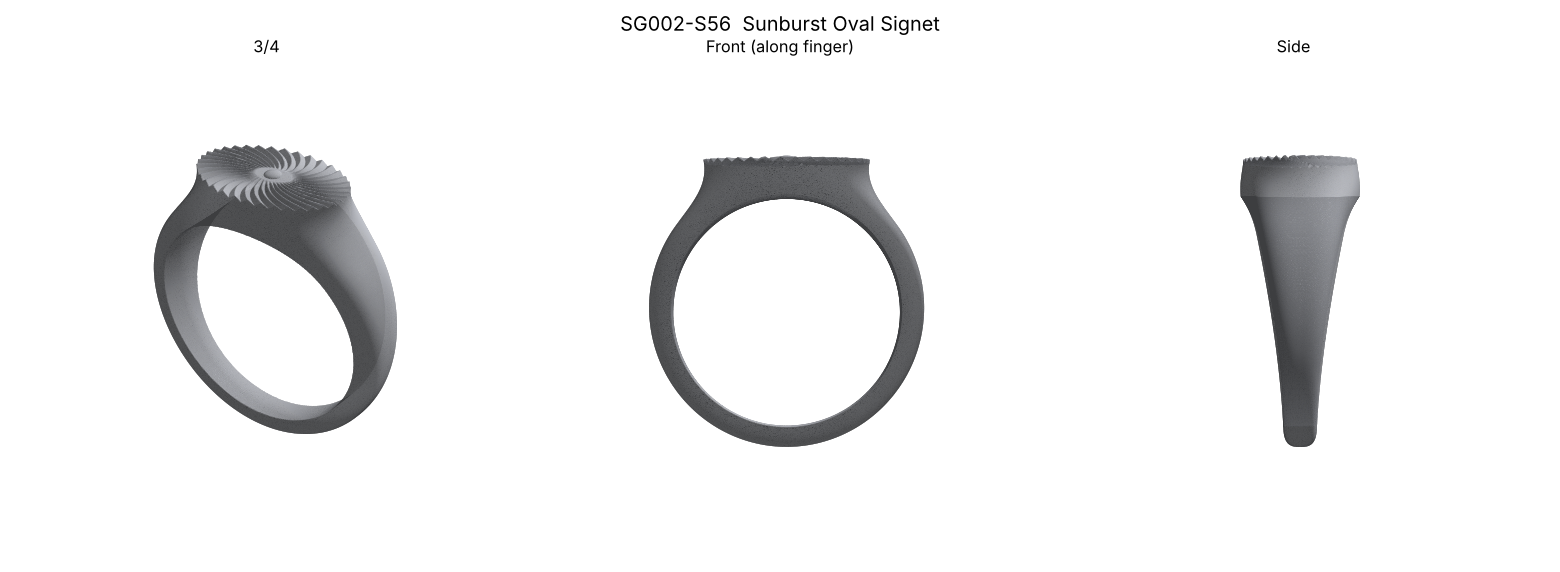
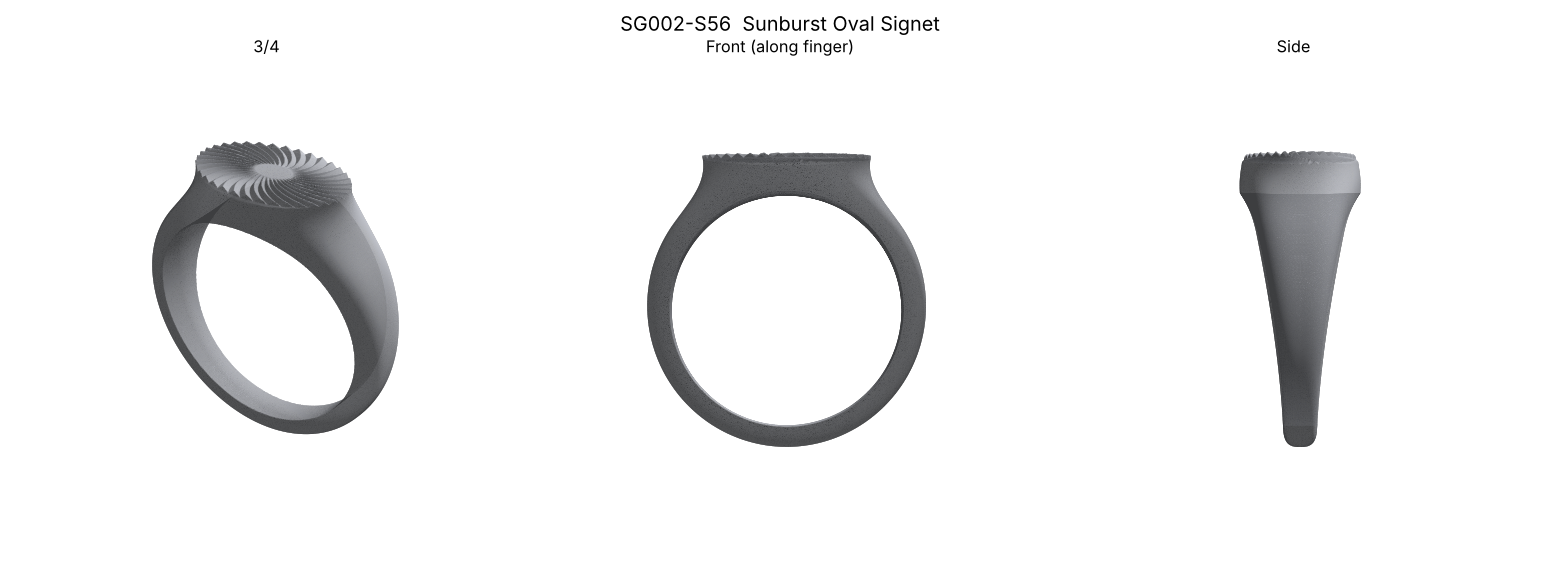
jewelry-cad: signet face stands clear of the shank with an even edge drop
Claude-Session: https://claude.ai/code/session_01PfP4o3WJFAv6XYjE3deh4p

diff --git a/jewelry-cad/sdf.py b/jewelry-cad/sdf.py
@@ -49,6 +49,11 @@ def build(p, top_height_fn=None, extra_cut_fn=None, step=0.06):
     d = smin(shank, head, p["blend_mm"])
     # --- flat (or textured) face
     top = H - (top_height_fn(X, Z) if top_height_fn else 0.0)
+    # face edge: outside the face ellipse the metal must fall away at once (small crisp drop)
+    # and keep sloping down, so the face reads as one clean plate, evenly separated from the shank
+    eo = np.maximum(ellipse2(X, Z, a, b), 0)
+    drop, slope = p.get("face_edge_drop_mm", 0.3), p.get("face_edge_slope", 1.0)
+    top = np.minimum(top, H - np.minimum(drop, eo * 10) - slope * eo)
     d = np.maximum(d, Y - top)
     # --- finger hole (comfort fit)
     rin = r0 + p["comfort_fit_mm"] * np.clip(Z / 4.0, -1, 1) ** 2

diff --git a/jewelry-cad/CLAUDE.md b/jewelry-cad/CLAUDE.md
@@ -36,6 +36,7 @@ crisp flat face, teardrop outline seen along the finger. v1 signets (hull head o
 `engine.py` geometry helpers · `designs_lib.py` builders · `designs/*.json` one file per design (source of truth) ·
 `jewelry.py` build+validate+export · `catalog.py` · `render.py` ·
 `sdf.py` implicit modelling (smooth blend + marching cubes) for organic forms such as signets.
+Signet face: outside the face ellipse metal drops 0.3 mm at once then slopes 45° (owner asked for a clean, even face-to-shank separation).
 Redesign of an unproduced model keeps its code and gets `version` +1. Prefer structured grid meshes (no booleans) —
 booleans with coplanar faces gave zero-area slivers that break STL watertightness on re-import.
 Validation = watertight, single body, inner diameter vs ISO, radial wall-thickness rays, volume, weight per metal.
